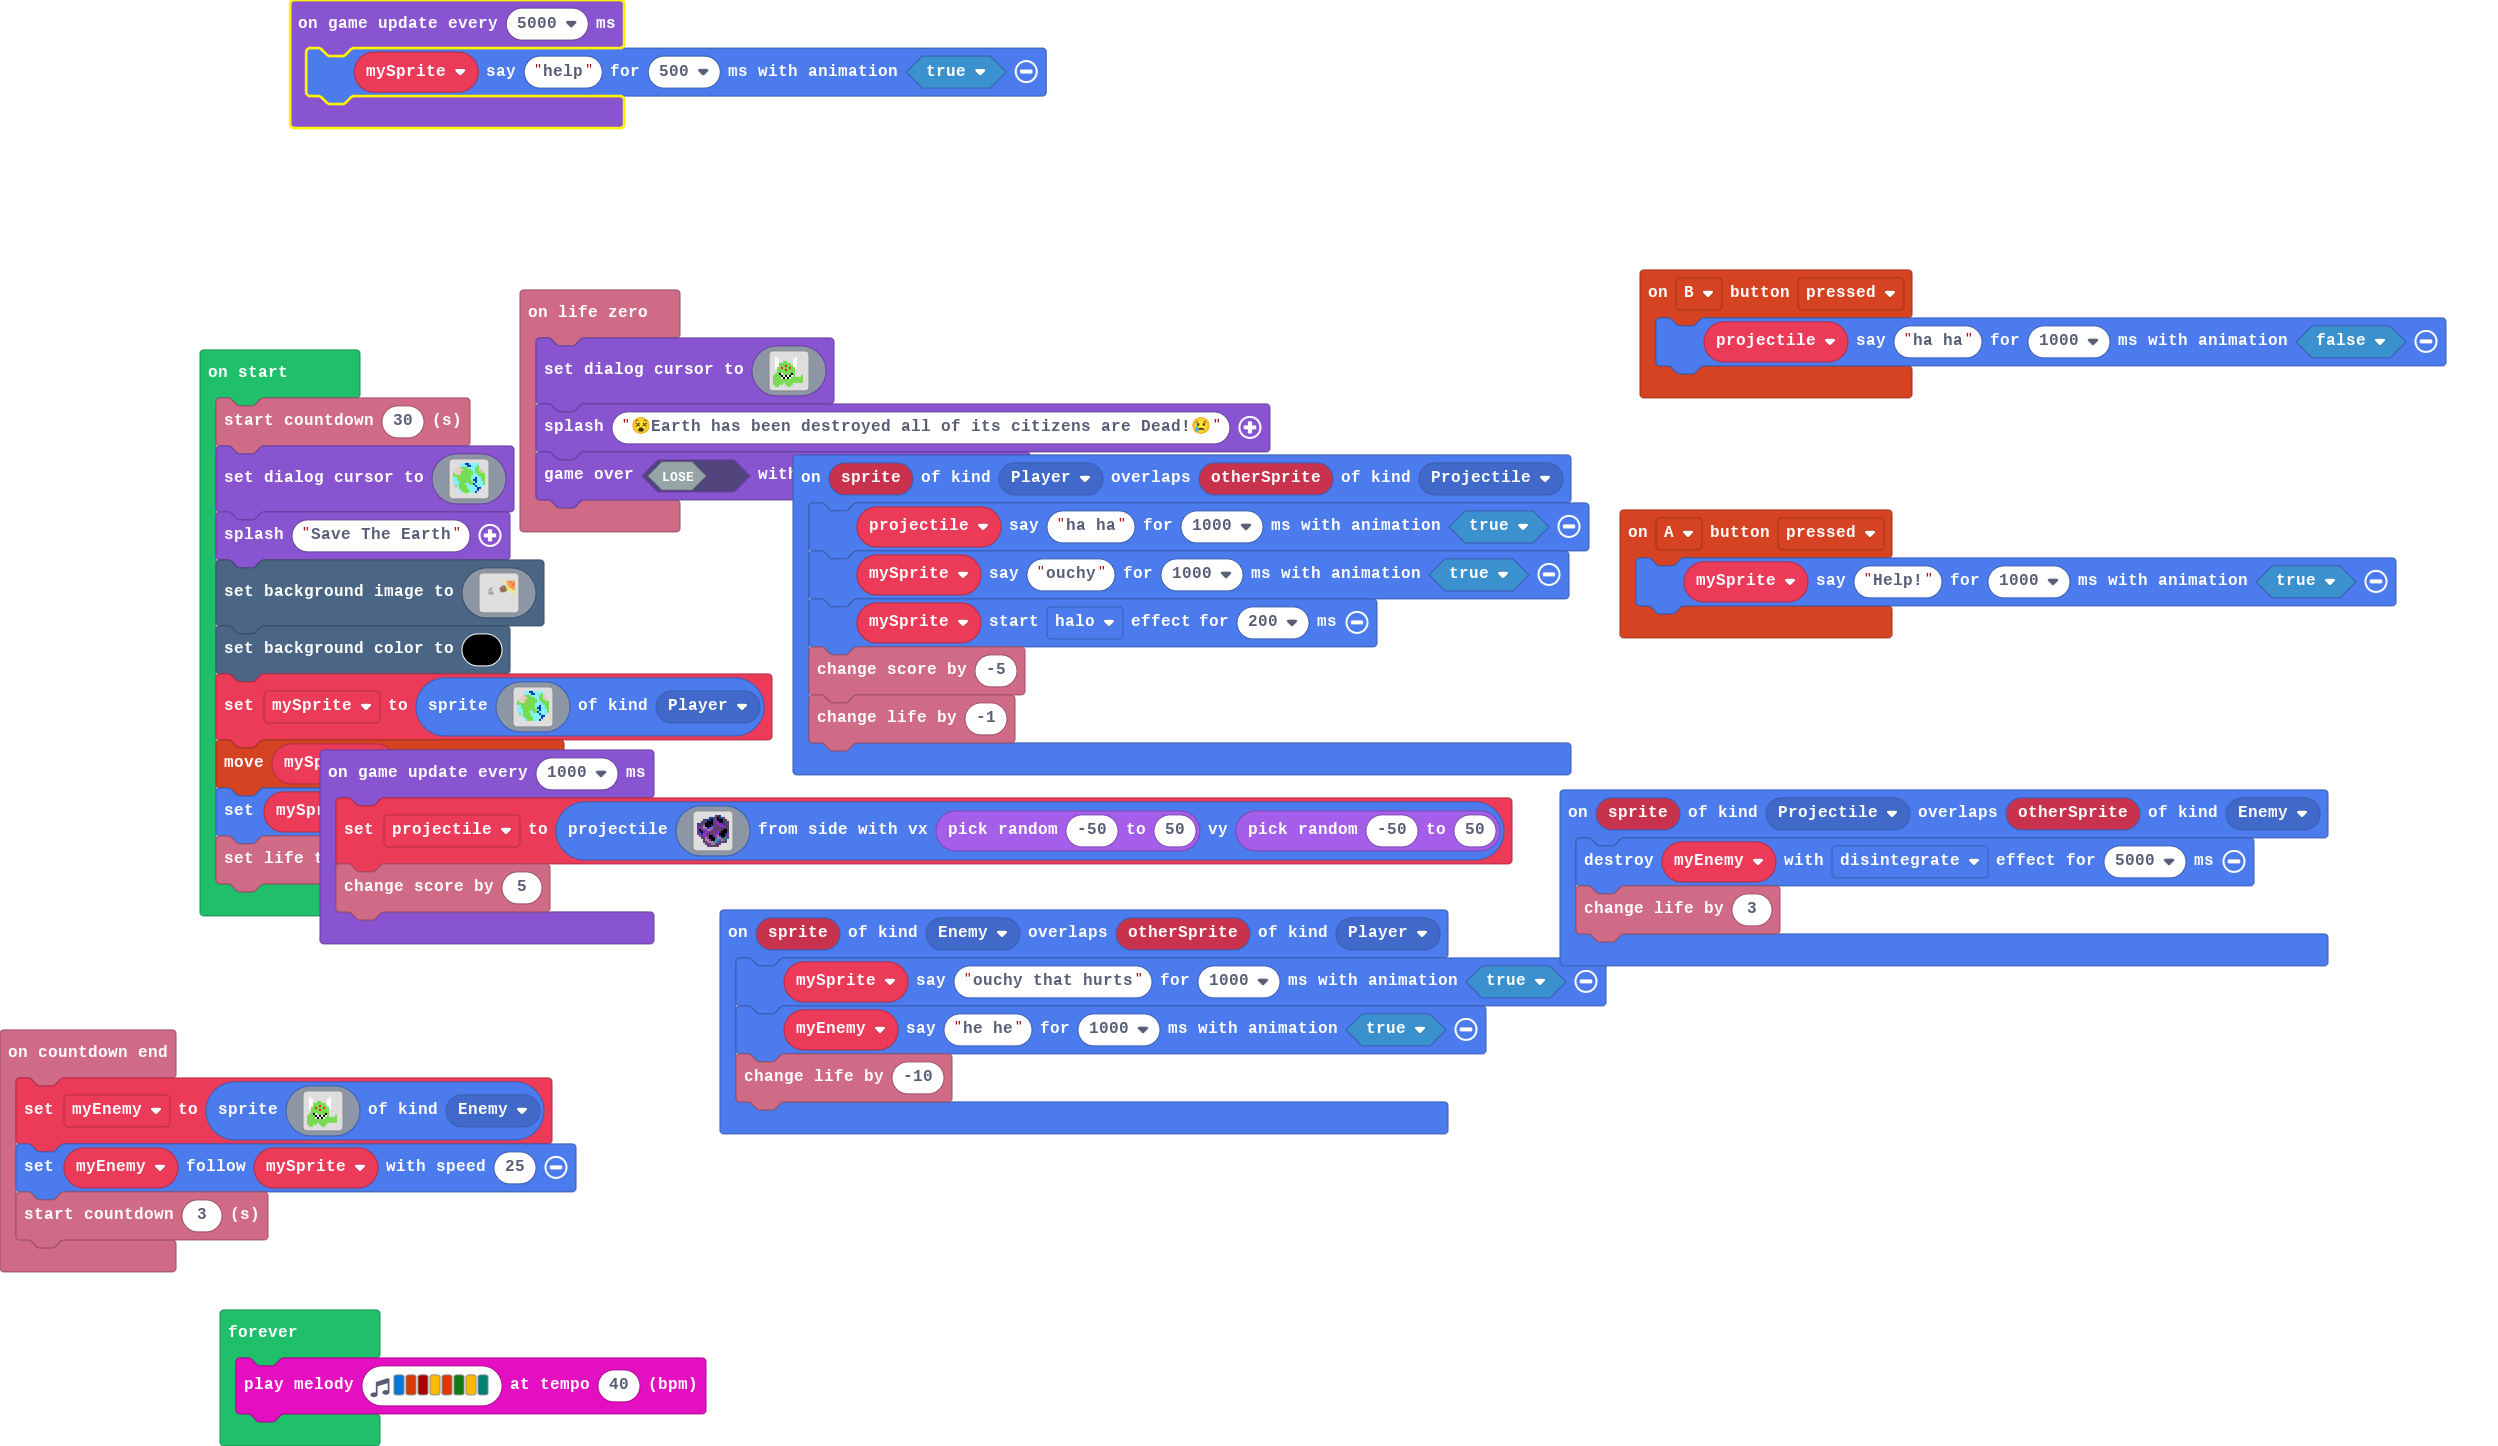
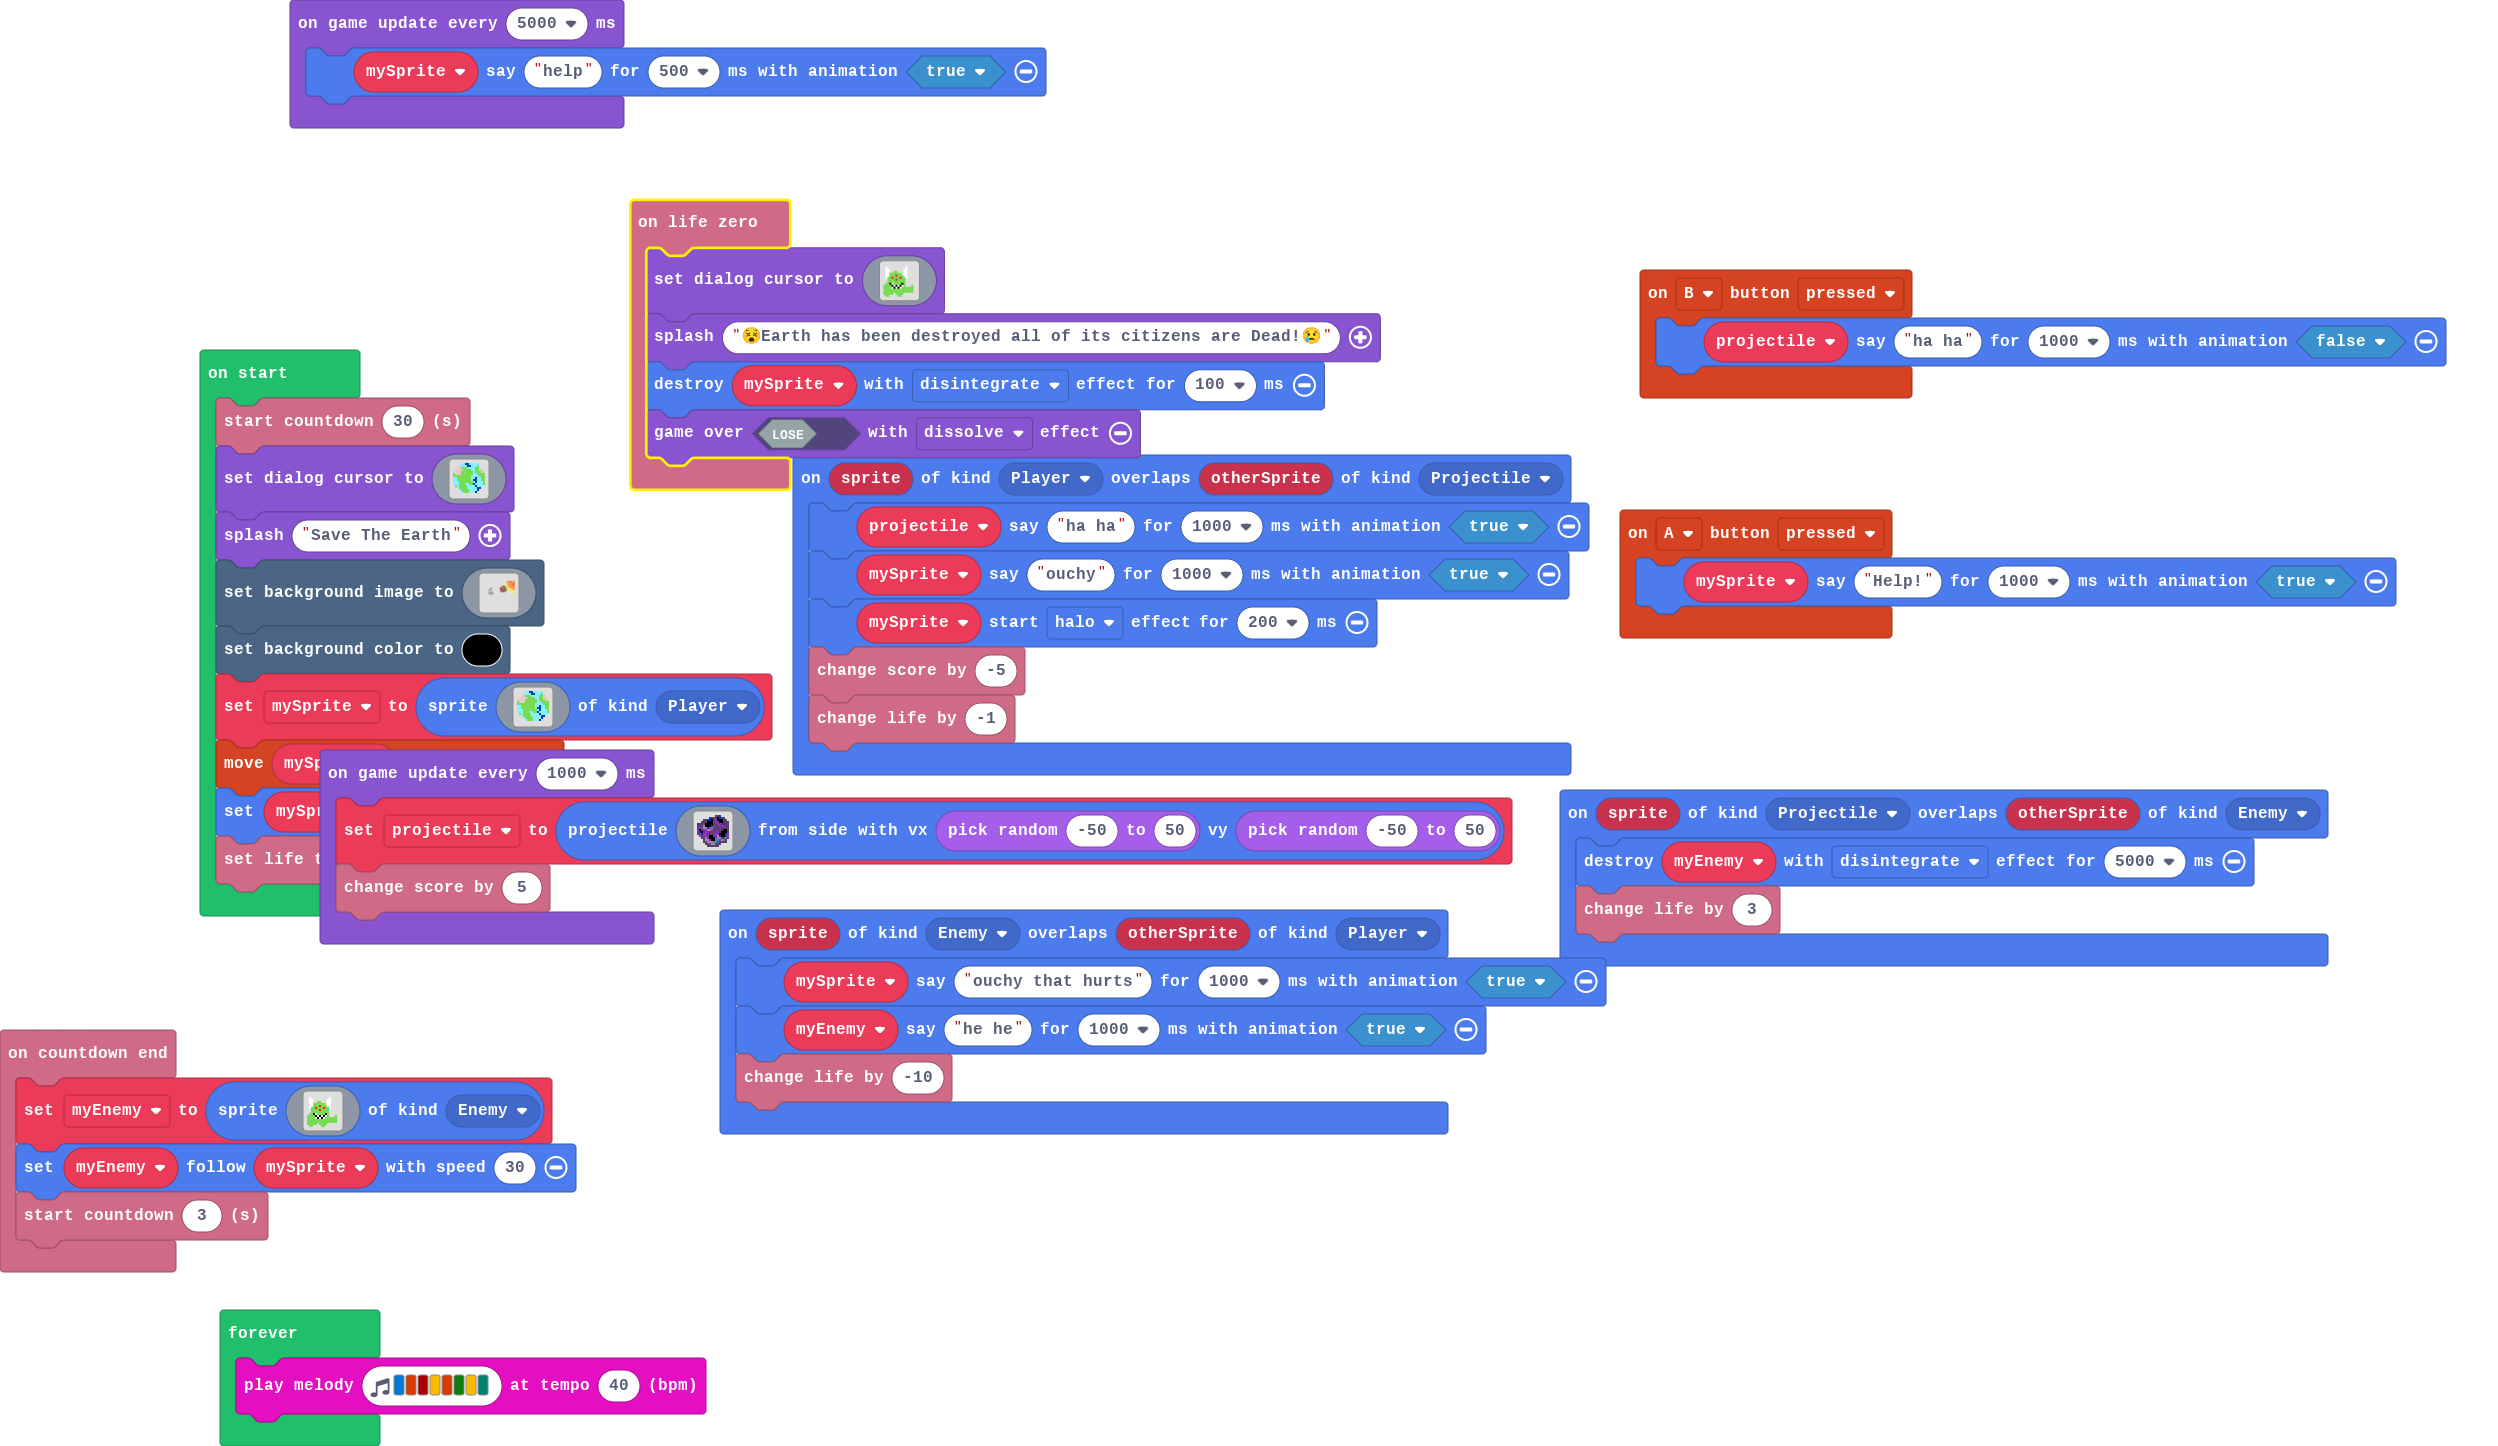
Update main.blocks, main.ts

Changed region(s): [[0.1873, 0.1245, 0.562, 0.3734], [0.0937, 0.0311, 0.2498, 0.0934]]

diff --git a/main.ts b/main.ts
@@ -23,7 +23,7 @@ info.onCountdownEnd(function () {
         7 7 7 7 7 . 7 7 7 7 . . . . . . 
         . 7 7 . . . . 7 7 . . . . . . . 
         `, SpriteKind.Enemy)
-    myEnemy.follow(mySprite, 25)
+    myEnemy.follow(mySprite, 30)
     info.startCountdown(3)
 })
 sprites.onOverlap(SpriteKind.Player, SpriteKind.Projectile, function (sprite, otherSprite) {
@@ -58,6 +58,7 @@ info.onLifeZero(function () {
         . 7 7 . . . . 7 7 . . . . . . . 
         `)
     game.splash("😵Earth has been destroyed all of its citizens are Dead!😢")
+    mySprite.destroy(effects.disintegrate, 100)
     game.over(false, effects.dissolve)
 })
 sprites.onOverlap(SpriteKind.Projectile, SpriteKind.Enemy, function (sprite, otherSprite) {
